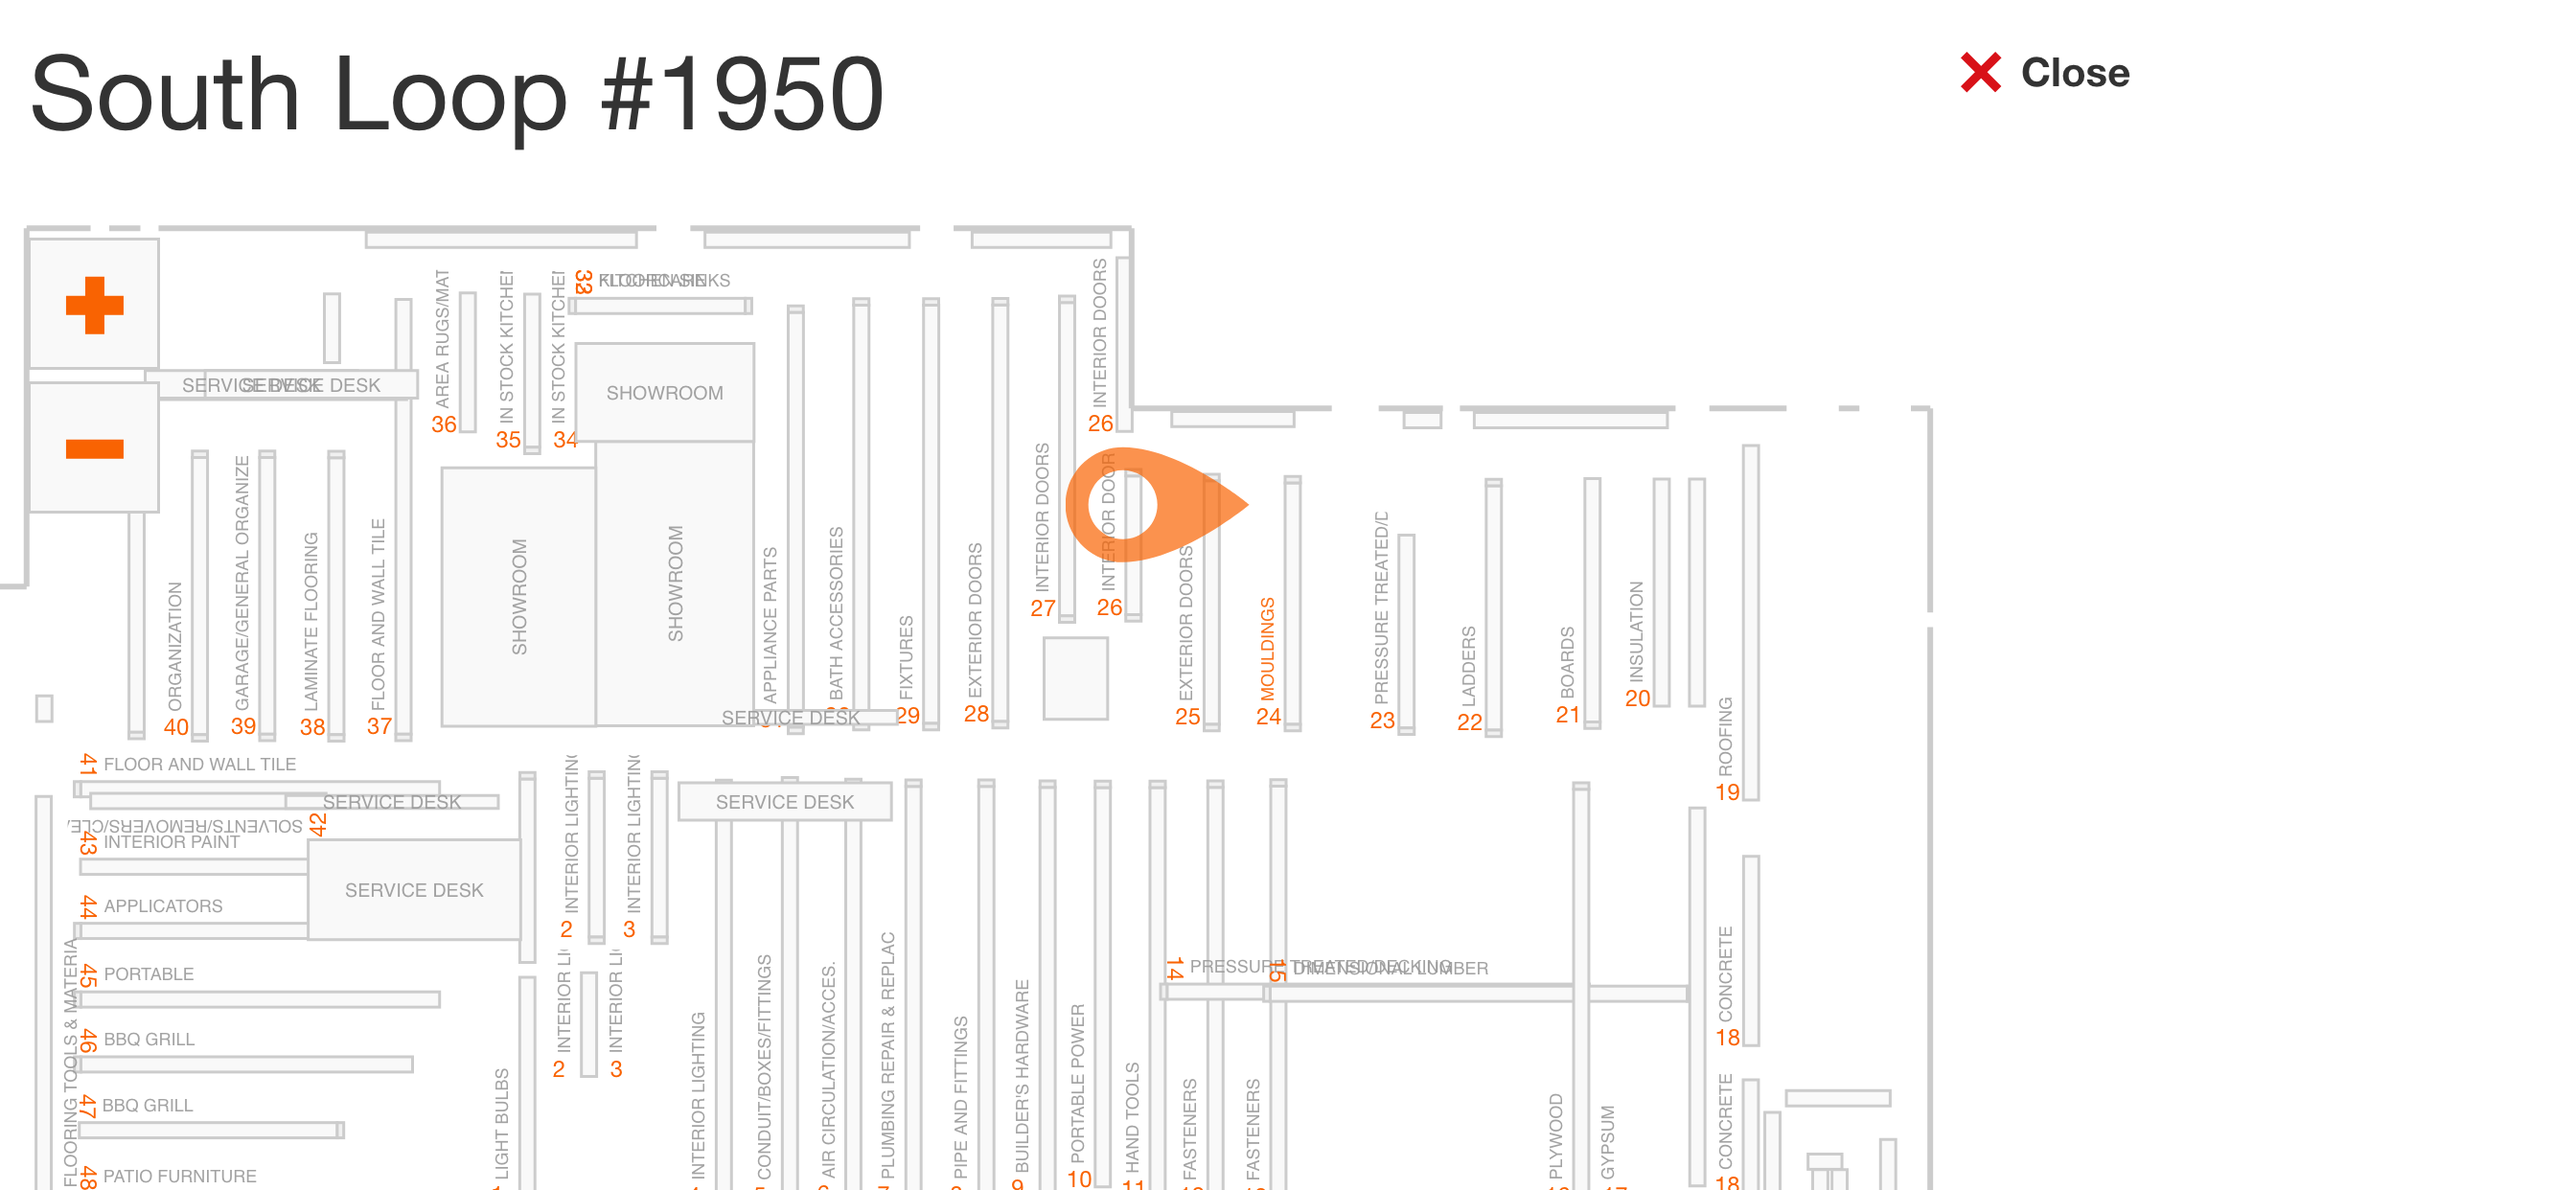
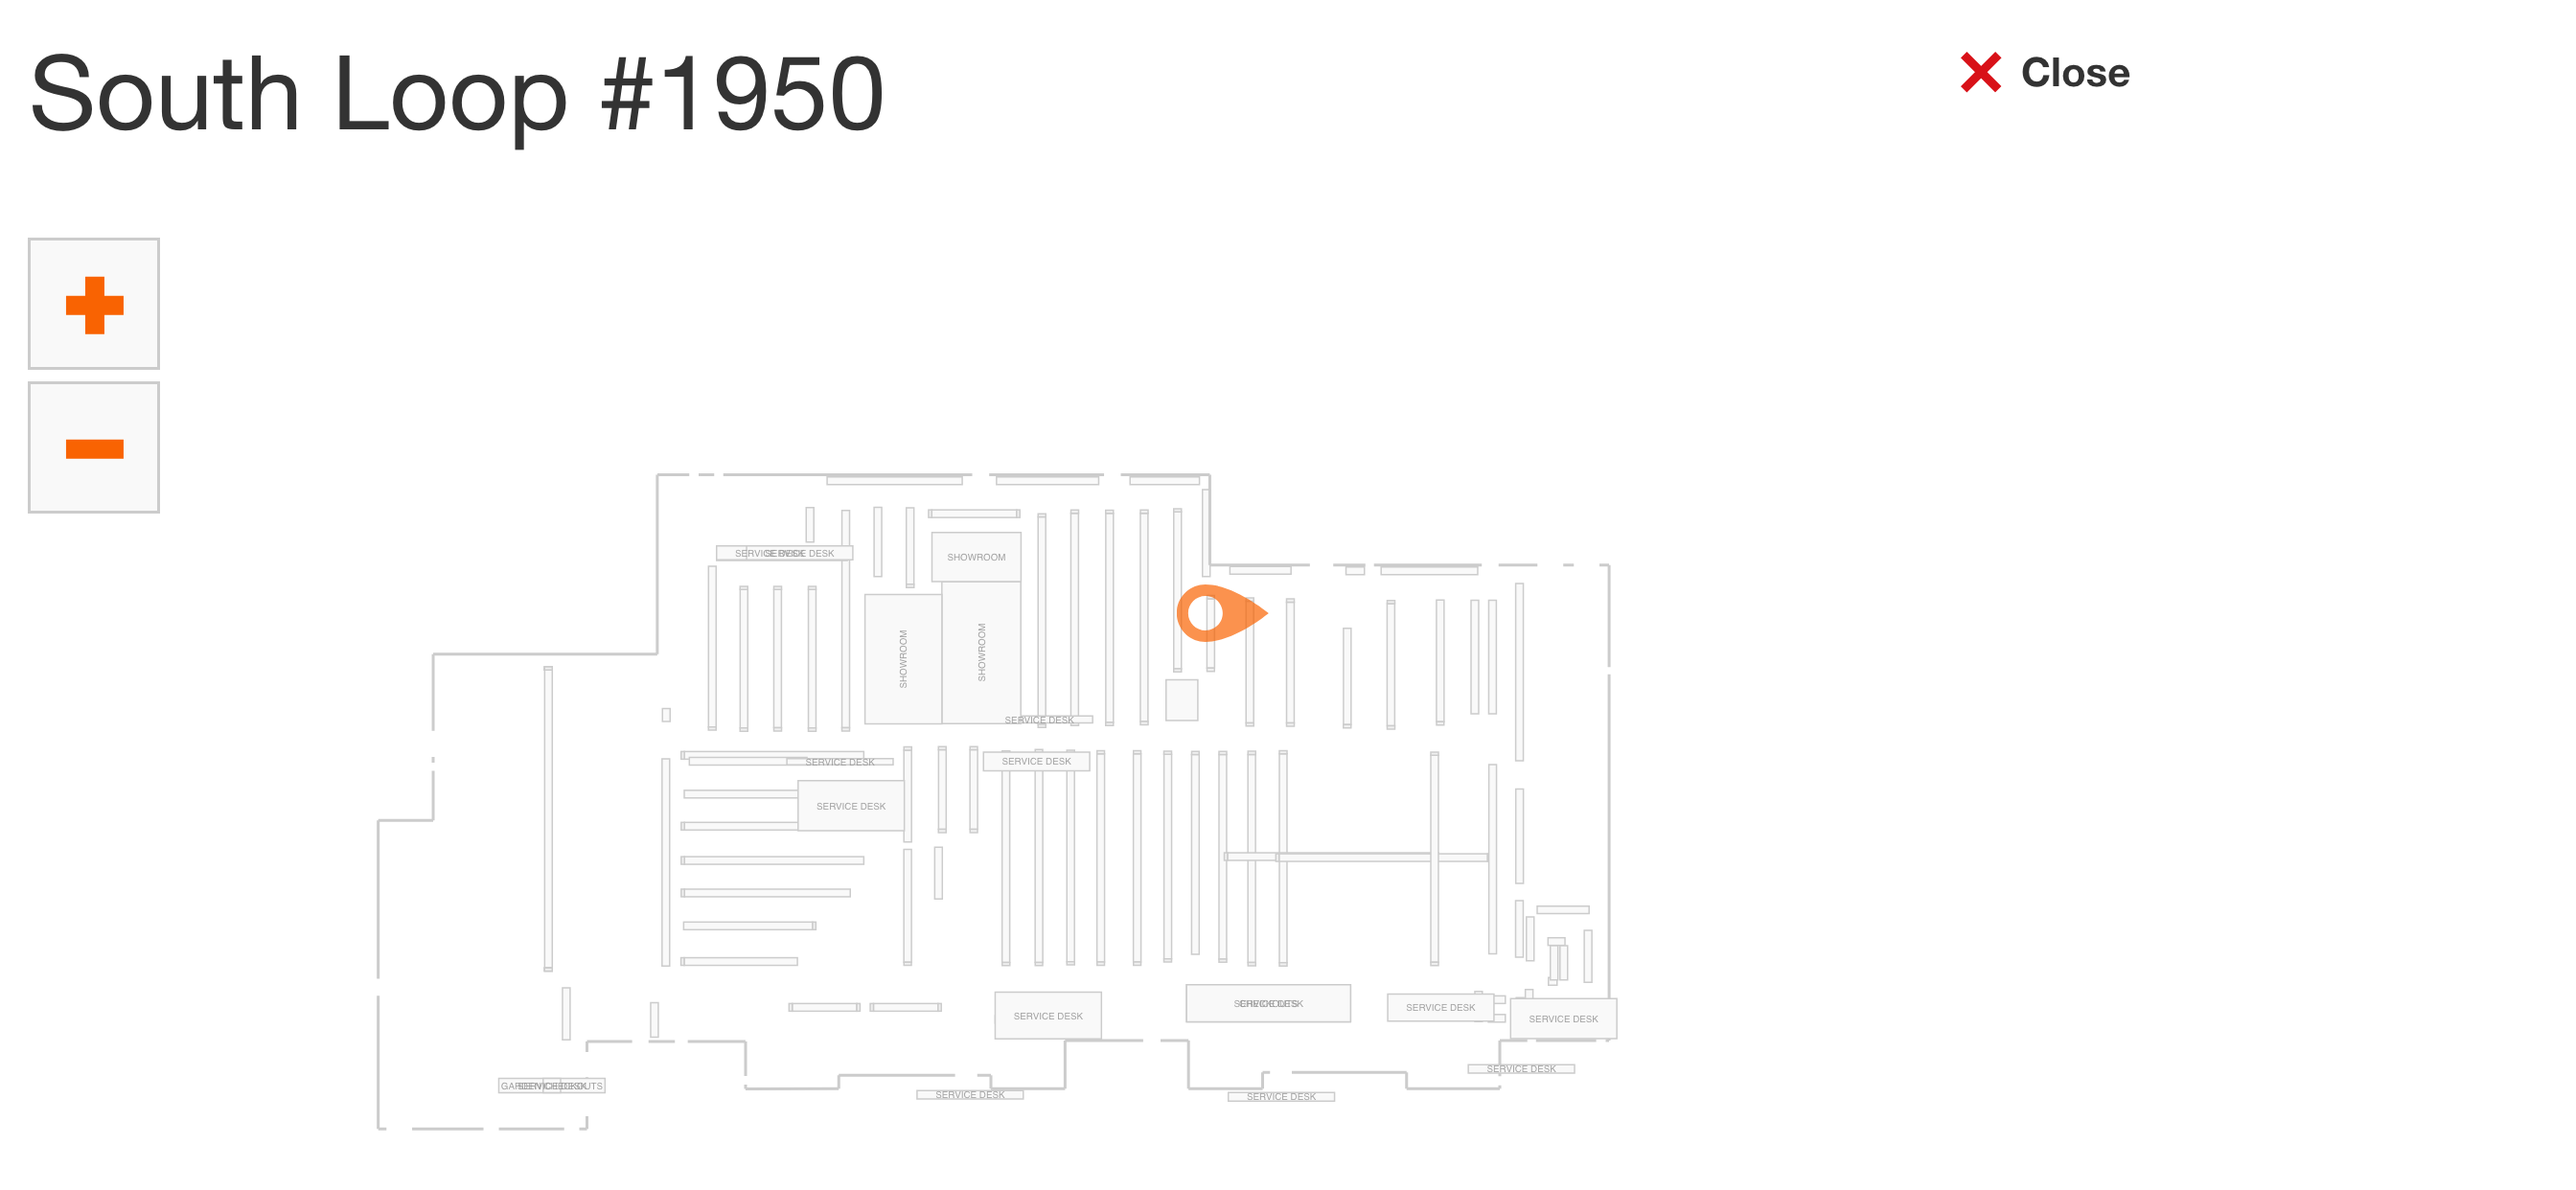
outlined scope in notes

Changed region(s): [[0.0, 0.1836, 0.75, 1.0], [0.0, 0.1836, 0.0312, 0.2142]]

diff --git a/scraper.js b/scraper.js
@@ -4,14 +4,26 @@ const iPhoneXR = devices['iPhone XR landscape'];
 
 puppeteer.launch({ headless: false }).then(async browser => {
   const page = await browser.newPage();
+  // spoof mobile to access store map
   await page.emulate(iPhoneXR);
+  // go to cart url
   const url =
     'https://www.homedepot.com/p/DAP-Alex-Plus-10-1-oz-White-Acrylic-Latex-Caulk-Plus-Silicone-18103/100097524';
   await page.goto(url);
+  // grab the div.grid in every div.cartItem and store in an ITEM object?
+  // click the div.cartImage > a
+  // click store map on item page
   await Promise.all([
     await page.click('div.store-availability__inventory > a'),
     await page.waitForNavigation({ waitUntil: 'load' })
   ]);
+  // grab the g.active-aisle (storemarker) and store it in ITEM object
+  // need to grab rect.(x,y) coordinates
+  // Traveling Salesman algorithm + rerender div.cartItem(s) in correct order
+
+  // zoom out 1x store layout
+  await page.click('rect.minus-box');
+  // screenshot the page
   await page.screenshot({ path: 'test.png' });
   await browser.close();
 });

diff --git a/README.md b/README.md
@@ -4,4 +4,4 @@ Merth (Gaelic): Decision in a time of crisis.
 
 Given a cart containing items that are available at a chosen Home Depot location, MERTH will return a store map with the most efficient route to obtain and purchase all items.
 
-MERTH deploys a headless chromium web browser (puppeteer.js) to "scrape" all required data.
+MERTH deploys a headless chromium web browser (puppeteer.js) to "scrape" all required data and applies a heuristic for the Traveling Salesman Problem using simulated annealing.
